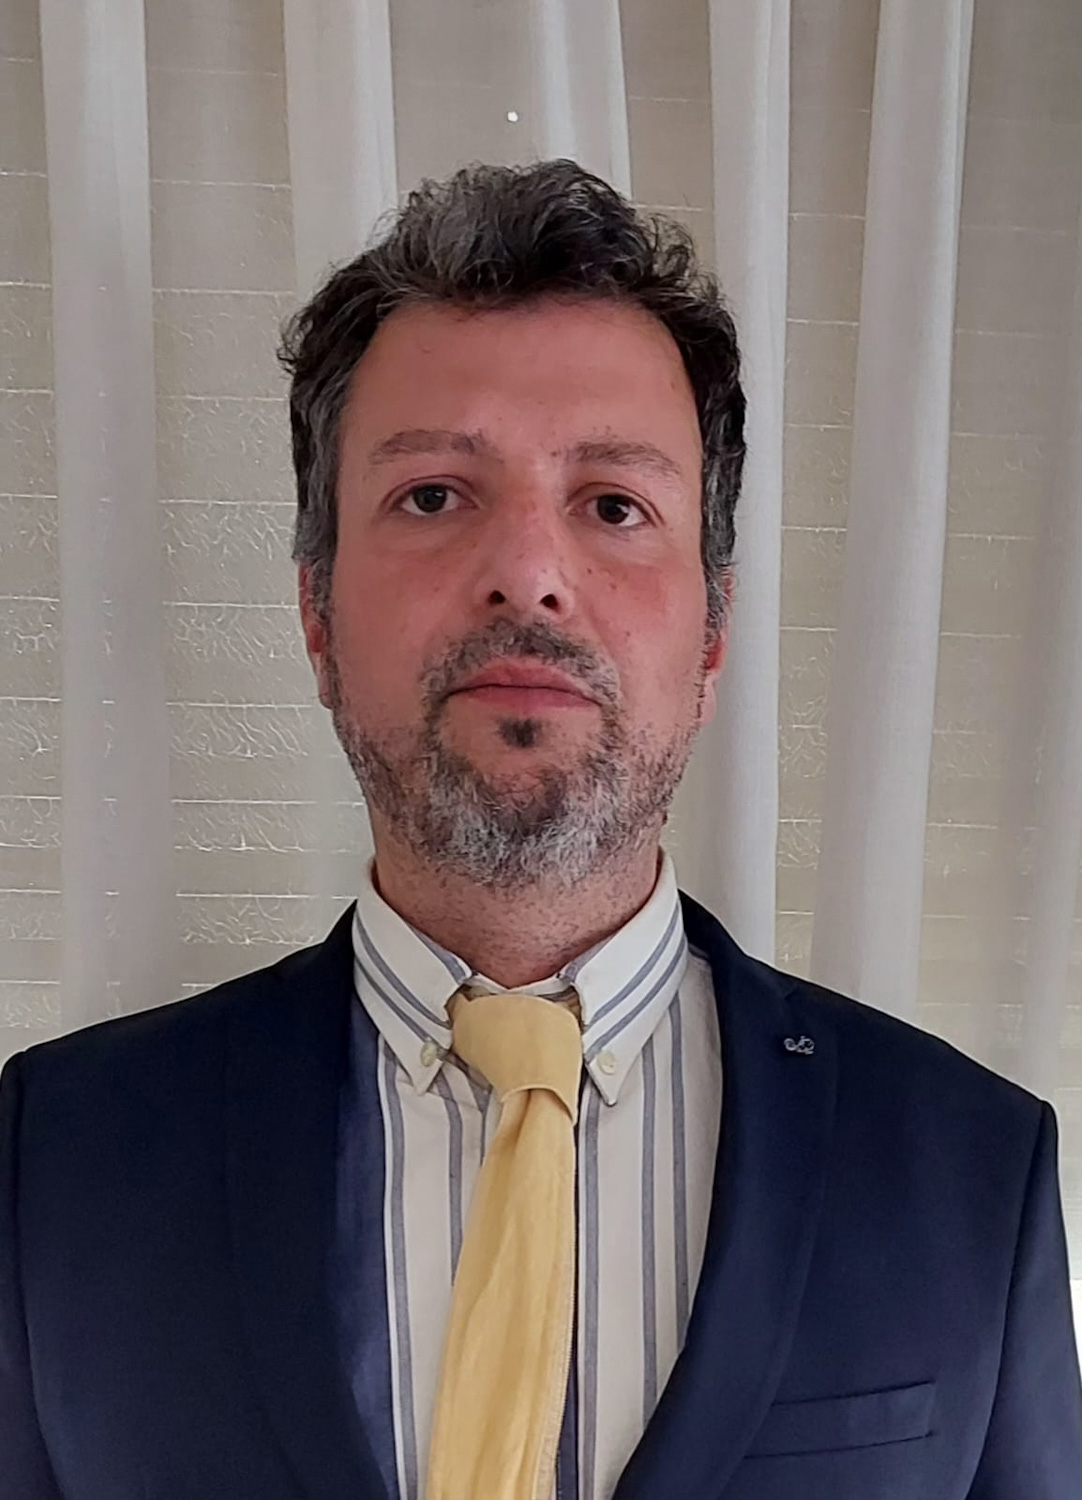
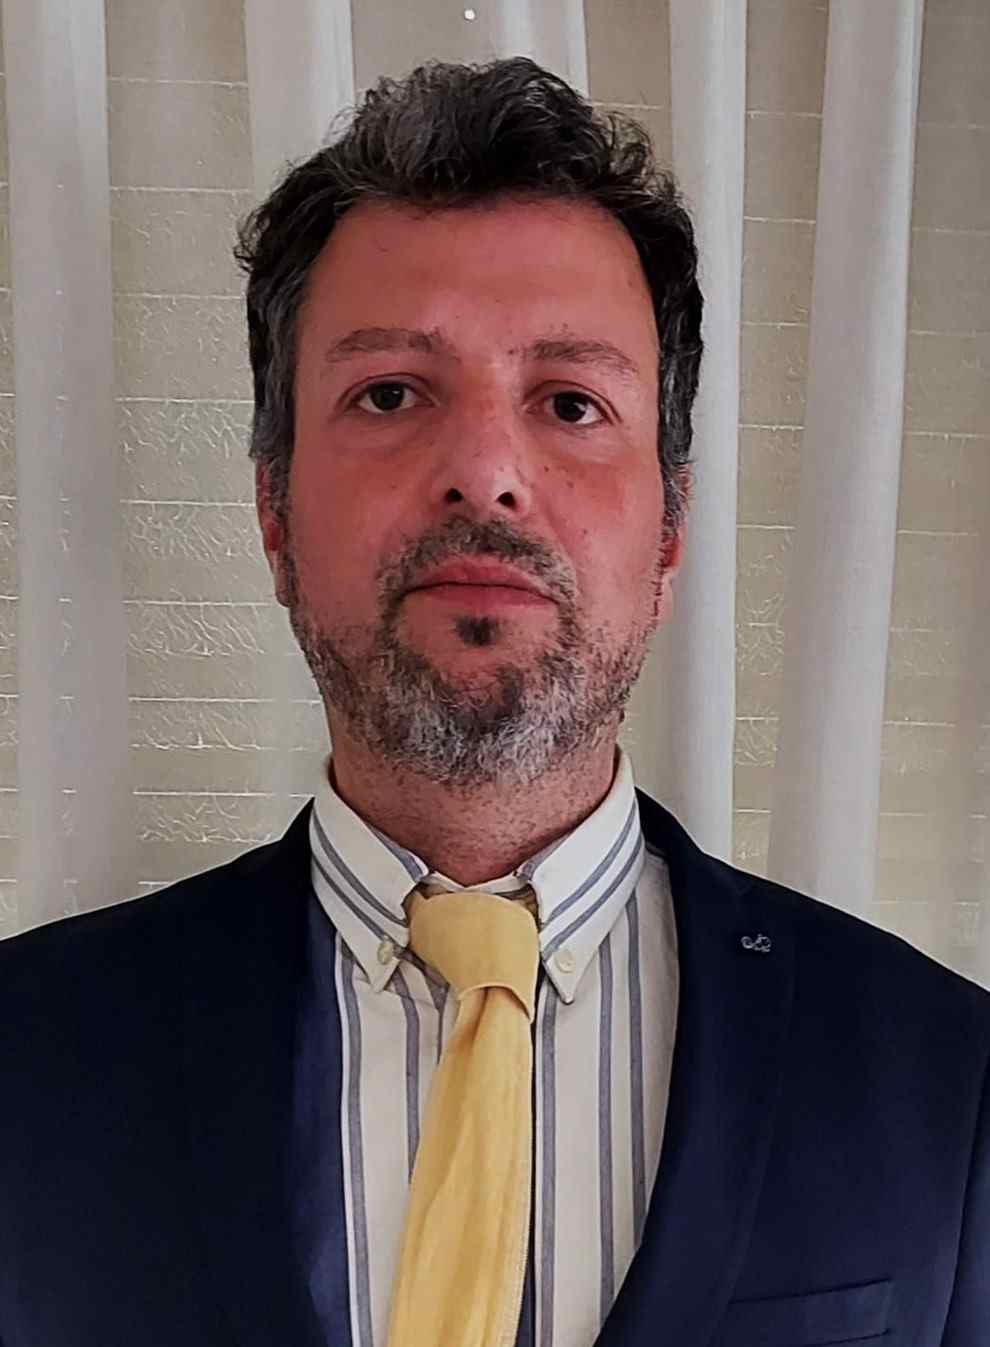
goi

diff --git a/index.html b/index.html
@@ -1,63 +1,106 @@
-<!DOCTYPE html>
+<!doctype html>
 <html lang="en">
-<head>
-    <meta charset="UTF-8">
-    <meta name="viewport" content="width=device-width, initial-scale=1.0">
-    
+  <head>
+    <meta charset="UTF-8" />
+    <meta name="viewport" content="width=device-width, initial-scale=1.0" />
+
     <!-- Título requerido por la auditoría -->
     <title>WDD 131 - Dynamic Web Fundamentals - Rafael Valdes</title>
-    
+
     <!-- Meta descripción (optimizada para SEO y auditoría) -->
-    <meta name="description" content="WDD 131 - Dynamic Web Fundamentals. Rafael Valdes. Portfolio showcasing responsive web design, HTML, CSS, and JavaScript projects.">
-    
+    <meta
+      name="description"
+      content="WDD 131 - Dynamic Web Fundamentals. Rafael Valdes. Portfolio showcasing responsive web design, HTML, CSS, and JavaScript projects."
+    />
+
     <!-- Meta autor -->
-    <meta name="author" content="Rafael Valdes">
-    
+    <meta name="author" content="Rafael Valdes" />
+
     <!-- Google Fonts (Requerido por la auditoría) -->
-    <link rel="preconnect" href="https://fonts.googleapis.com">
-    <link rel="preconnect" href="https://fonts.gstatic.com" crossorigin>
-    <link href="https://fonts.googleapis.com/css2?family=Roboto:wght@400;500;700&display=swap" rel="stylesheet">
-    
+    <link rel="preconnect" href="https://fonts.googleapis.com" />
+    <link rel="preconnect" href="https://fonts.gstatic.com" crossorigin />
+    <link
+      href="https://fonts.googleapis.com/css2?family=Roboto:wght@400;500;700&display=swap"
+      rel="stylesheet"
+    />
+
     <!-- Enlace al CSS externo (Ruta exacta requerida) -->
-    <link rel="stylesheet" href="styles/base.css">
-</head>
-<body>
+    <link rel="stylesheet" href="styles/base.css" />
+
+    <script src="scripts/getdates.js" defer></script>
+  </head>
+  <body>
     <header>
-        <h2><span id="course-title">WDD 131 - Dynamic Web Fundamentals</span></h2>
-        <nav>
-            <ul>
-                <li><a href="https://www.linkedin.com/" target="_blank" rel="noopener noreferrer">LinkedIn</a></li>
-                <li><a href="https://byupw.instructure.com/" target="_blank" rel="noopener noreferrer">Canvas</a></li>
-                <li><a href="https://www.churchofjesuschrist.org/study/scriptures/bofm/1-ne/3?lang=eng&id=p7#p7" target="_blank" rel="noopener noreferrer">Favorite Scripture</a></li>
-                <li><a href="final-project/">Final Project</a></li>
-            </ul>
-        </nav>
+      <h2><span id="course-title">WDD 131 - Dynamic Web Fundamentals</span></h2>
+      <nav>
+        <ul>
+          <li>
+            <a
+              href="https://www.linkedin.com/"
+              target="_blank"
+              rel="noopener noreferrer"
+              >LinkedIn</a
+            >
+          </li>
+          <li>
+            <a
+              href="https://byupw.instructure.com/"
+              target="_blank"
+              rel="noopener noreferrer"
+              >Canvas</a
+            >
+          </li>
+          <li>
+            <a
+              href="https://www.churchofjesuschrist.org/study/scriptures/bofm/1-ne/3?lang=eng&id=p7#p7"
+              target="_blank"
+              rel="noopener noreferrer"
+              >Favorite Scripture</a
+            >
+          </li>
+          <li><a href="final-project/">Final Project</a></li>
+        </ul>
+      </nav>
     </header>
 
     <main>
-        <h1>Rafael Valdes</h1>
-        
-        <section class="card">
-            <h2>Web Development Journey</h2>
-            <!-- RECUERDA: Cambia 'profile.jpg' por el nombre real de tu imagen en la carpeta images -->
-            <img src="images/profile.jpg" alt="Rafael Valdes working on web development" width="400" height="300" loading="lazy">
-            <p>Learning the fundamentals of building responsive and dynamic web pages using modern frontend technologies.</p>
-        </section>
+      <h1>Rafael Valdes</h1>
 
-        <section class="card">
-            <h2>My Projects</h2>
-            <img src="images/profile1.jpg" alt="Screenshot of web development projects" width="400" height="300" loading="lazy">
-            <p>A collection of weekly assignments and personal projects demonstrating my growing skills in web development.</p>
-        </section>
+      <section class="card">
+        <h2>Web Development Journey</h2>
+        <!-- RECUERDA: Cambia 'profile.jpg' por el nombre real de tu imagen en la carpeta images -->
+        <img
+          src="images/profile.jpg"
+          alt="Rafael Valdes working on web development"
+          width="400"
+          height="300"
+          loading="lazy"
+        />
+        <p>
+          Learning the fundamentals of building responsive and dynamic web pages
+          using modern frontend technologies.
+        </p>
+      </section>
+
+      <section class="card">
+        <h2>My Projects</h2>
+        <img
+          src="images/profile1.jpg"
+          alt="Screenshot of web development projects"
+          width="400"
+          height="300"
+          loading="lazy"
+        />
+        <p>
+          A collection of weekly assignments and personal projects demonstrating
+          my growing skills in web development.
+        </p>
+      </section>
     </main>
 
     <footer>
-        <p>&copy; <span id="currentyear"></span> Rafael Valdes, Chile</p>
-        <p id="lastModified"></p>
+      <p>&copy; <span id="currentyear"></span> Rafael Valdes, Chile</p>
+      <p id="lastModified"></p>
     </footer>
-
-    <!-- Enlace al JS externo con el nombre exacto que pide la auditoría -->
-    <script src="scripts/getdates.js" defer></script>
-
-</body>
+  </body>
 </html>
